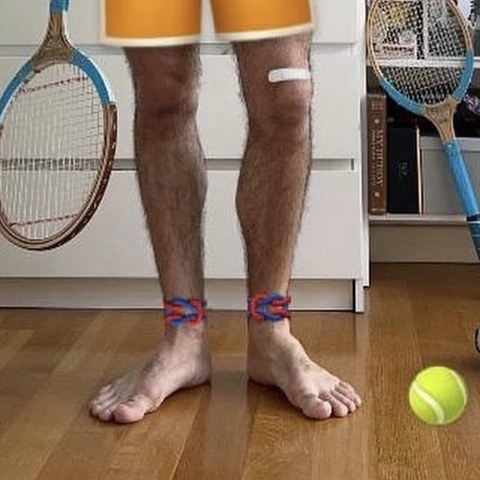
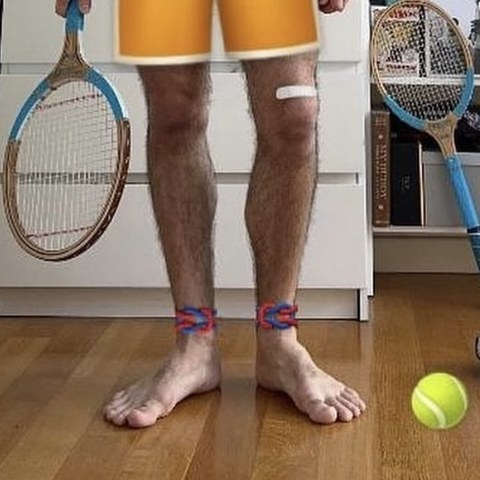
prettylyubovv: swap in Tomato's crops, drop feet_2 and legs_1
Claude-Session: https://claude.ai/code/session_01NhxkABm9oGRGhYGPaGXwTR

diff --git a/index.html b/index.html
@@ -541,10 +541,8 @@ const CREATOR_TILES=[
   'punktormo_torso_3',
   'punktormo_torso_4',
   'prettylyubovv_feet_1',
-  'prettylyubovv_feet_2',
   'prettylyubovv_feet_3',
   'prettylyubovv_feet_4',
-  'prettylyubovv_legs_1',
   'prettylyubovv_torso_1',
   'prettylyubovv_torso_2',
   'prettylyubovv_feet_5',
